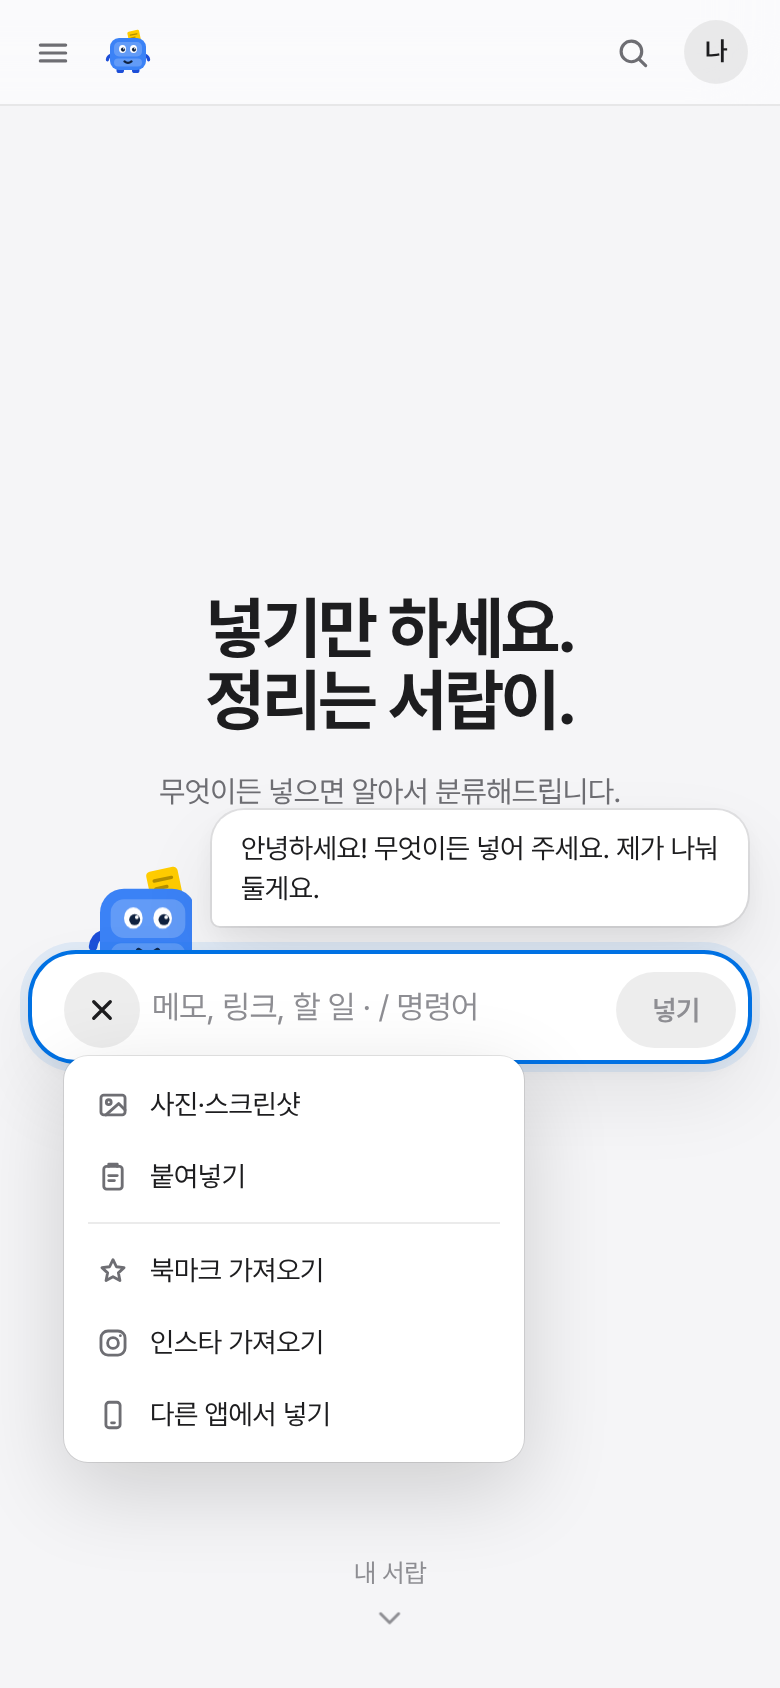
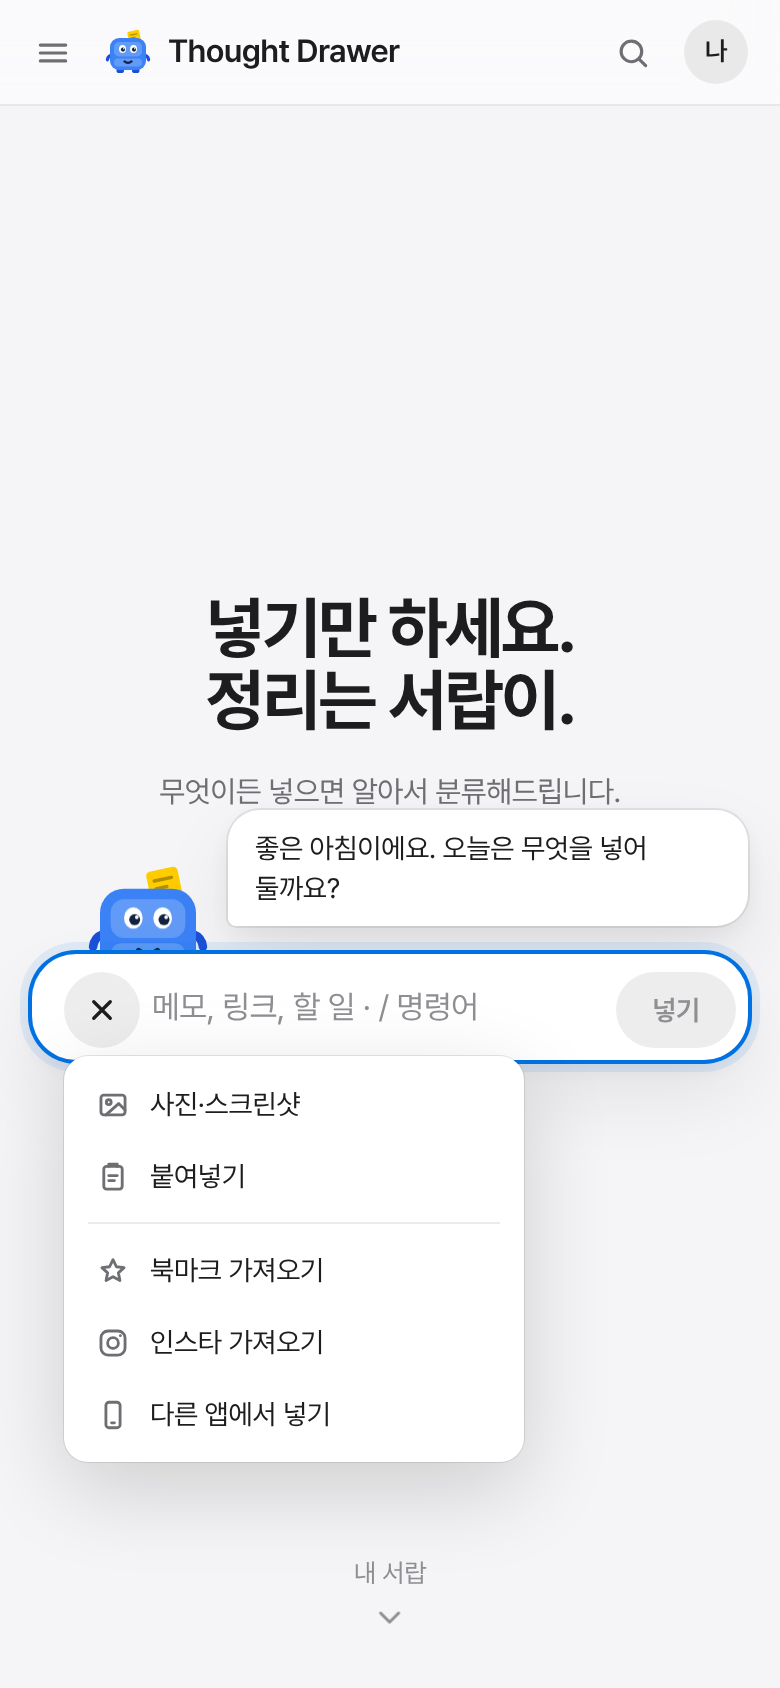
폰 화면을 PC 구조에 맞추기
- 노트: PC의 세 칸을 그대로. 위 막대의 두 버튼으로 왼쪽(같은 서랍 노트)과 오른쪽(연결 · 목차 · 그래프) 칸을 밀어 열고, 바깥을 누르거나 ✕로 닫는다
- 위치 표시는 한 줄, 맨 위 이름 옆에 앱 이름도 보이게
- 서랍 화면 폴더 3열, 도움말 목차 2열, 서랍이 크기 줄이기
- PC 화면은 그대로 (픽셀 비교로 확인)

Claude-Session: https://claude.ai/code/session_01NXaGNJyQVpQYUUX5tEWxav

diff --git a/js/ui/views/note.js b/js/ui/views/note.js
@@ -1,6 +1,6 @@
 // 노트 화면: 제목, 속성(폴더·태그·출처·날짜), Claude 요약, 내 생각, 본문(바로 쓰는 편집기, 자동 저장),
 // 오른쪽 패널(연결, 비슷한 노트). /new 는 아무것도 적기 전까지 파일을 만들지 않는다.
-import { html, useState, useEffect, useLayoutEffect, useRef, useCallback, autosize } from '../h.js';
+import { html, useState, useEffect, useLayoutEffect, useRef, useCallback, autosize, cx } from '../h.js';
 import { Icon, Mascot, TYPE_ICON } from '../icons.js';
 import { app, useLib, toast } from '../state.js';
 import { go, setUrl, noteHref, folderHref, tagHref } from '../router.js';
@@ -72,11 +72,11 @@ function WsBar({ noteId = null, crumb = null, right = null, siblings = [] }) {
 }
 
 // 왼쪽 칸: 같은 서랍의 노트들 (옵시디언의 파일 탐색기)
-function Explorer({ note, cat }) {
+function Explorer({ note, cat, onClose }) {
   const lib = useLib();
   const list = note ? lib.all.filter((n) => categoryOf(n, lib).name === cat.name).slice(0, 300) : lib.all.slice(0, 60);
   return html`<aside class="ws-left" aria-label="같은 서랍의 노트">
-    <div class="ws-pane-head"><${Icon} name=${note ? categoryLook(cat.name).icon : 'clock'} /><b>${note ? cat.name : '최근 노트'}</b><span class="grow"></span><a href=${note ? folderHref(cat.name) : '#/all'} title="모두 보기">${list.length}</a></div>
+    <div class="ws-pane-head"><${Icon} name=${note ? categoryLook(cat.name).icon : 'clock'} /><b>${note ? cat.name : '최근 노트'}</b><span class="grow"></span><a href=${note ? folderHref(cat.name) : '#/all'} title="모두 보기">${list.length}</a>${onClose && html`<button type="button" class="icon-btn show-m pane-x" aria-label="닫기" onClick=${onClose}><${Icon} name="x" /></button>`}</div>
     <ul class="ex-list">${list.map((n) => html`<li key=${n.id}><a href=${noteHref(n.id)} aria-current=${note && n.id === note.id ? 'page' : undefined}><${Icon} name=${TYPE_ICON[n.meta.type] ?? 'memo'} /><span>${titleOf(n)}</span></a></li>`)}</ul>
   </aside>`;
 }
@@ -99,11 +99,11 @@ function LocalGraph({ note }) {
 }
 
 // 오른쪽 칸: 연결 · 목차 · 그래프 (옵시디언의 오른쪽 사이드바)
-function Side({ note, md }) {
+function Side({ note, md, onClose }) {
   const [tab, setTab] = useState('links');
   const tabs = [['links', '연결'], ['outline', '목차'], ['graph', '그래프']];
   return html`<aside class="ws-right" aria-label="연결과 목차">
-    <div class="rp-tabs" role="tablist">${tabs.map(([k, label]) => html`<button type="button" key=${k} role="tab" aria-selected=${tab === k} onClick=${() => setTab(k)}>${label}</button>`)}</div>
+    <div class="rp-tabs" role="tablist">${tabs.map(([k, label]) => html`<button type="button" key=${k} role="tab" aria-selected=${tab === k} onClick=${() => setTab(k)}>${label}</button>`)}${onClose && html`<button type="button" class="icon-btn show-m pane-x" aria-label="닫기" onClick=${onClose}><${Icon} name="x" /></button>`}</div>
     <div class="rp-body note-links">
       ${tab === 'links' && (note ? html`<${Links} note=${note} />` : html`<p class="rp-empty">저장 후 표시됩니다.</p>`)}
       ${tab === 'outline' && html`<${Outline} md=${md} />`}
@@ -172,6 +172,8 @@ export function NoteView({ id, params }) {
   const [main, setMain] = useState(() => (note || id !== 'new' ? splitLinks(note?.body).main : TEMPLATES.find((t) => t.id === params?.get('template'))?.body ?? ''));
   const [thought, setThought] = useState(note?.meta.thought ?? '');
   const [saveState, setSaveState] = useState(null);
+  const [pane, setPane] = useState(''); // 폰: PC의 왼쪽(같은 서랍 노트)·오른쪽(연결·목차·그래프) 칸을 밀어 여는 창으로
+  const flip = (k) => setPane((p) => (p === k ? '' : k));
   const dirty = useRef(false);
   const queue = useRef(Promise.resolve());
   const latest = useRef({});
@@ -301,12 +303,15 @@ export function NoteView({ id, params }) {
     <${MenuItem} icon="trash" label="지우기" danger onClick=${() => { close(); remove(); }} />`);
 
   const kindLabel = KIND_LABEL[m.type] ?? '메모';
-  return html`<div class="ws">
-    <${Explorer} note=${note} cat=${cat} />
+  return html`<div class=${cx('ws', pane && `pane-${pane}`)}>
+    <${Explorer} note=${note} cat=${cat} onClose=${() => setPane('')} />
+    ${pane && html`<button type="button" class="ws-scrim show-m" aria-label="닫기" onClick=${() => setPane('')}></button>`}
     <div class="ws-main">
       <${WsBar} noteId=${noteId} siblings=${note && cat ? lib.all.filter((n) => categoryOf(n, lib).name === cat.name).map((n) => n.id) : []} crumb=${html`${cat ? html`<a href=${folderHref(cat.name)}>${cat.name}</a><${Icon} name="chevron" />${cat.sub && html`<a href=${folderHref(`${cat.name}/${cat.sub}`)}>${cat.sub}</a><${Icon} name="chevron" />`}${cat.sub && cat.leaf && html`<a class="hide-m" href=${folderHref(`${cat.name}/${cat.sub}/${cat.leaf}`)}>${cat.leaf}</a><${Icon} name="chevron" class="hide-m" />`}` : html`<span>새 노트</span><${Icon} name="chevron" />`}<b>${title.trim() || (note ? titleOf(note) : '제목 없음')}</b>`} right=${html`
         <${SaveState} state=${saveState} />
         <span class="grow"></span>
+        <button type="button" class="icon-btn show-m" aria-label="같은 서랍 노트" aria-pressed=${pane === 'left'} title="같은 서랍 노트" onClick=${() => flip('left')}><${Icon} name="sidebar" /></button>
+        <button type="button" class="icon-btn show-m" aria-label="연결 · 목차 · 그래프" aria-pressed=${pane === 'right'} title="연결 · 목차 · 그래프" onClick=${() => flip('right')}><${Icon} name="panel" /></button>
         ${note && html`<button type="button" class=${`icon-btn${pinned ? ' starred' : ''}`} aria-pressed=${pinned} aria-label="즐겨찾기" title="즐겨찾기" onClick=${togglePin}><${Icon} name="star" /></button>`}
         <button type="button" class="icon-btn" aria-label="더 보기" onClick=${(e) => more(e.currentTarget)}><${Icon} name="more" /></button>`} />
       <article class=${`note-page k-${m.type ?? 'memo'}`}>
@@ -352,6 +357,6 @@ export function NoteView({ id, params }) {
         ${note && html`<p class="facts"><span>${fullDate(m.created)}에 넣음</span><span>${relTime(m.updated || m.created)} 고침</span>${m.organized && html`<span>${relTime(m.organized)} Claude가 정리</span>`}<span class="num">No.${note.id}</span></p>`}
       </article>
     </div>
-    <${Side} note=${note} md=${main} />
+    <${Side} note=${note} md=${main} onClose=${() => setPane('')} />
   </div>`;
 }

diff --git a/css/app.css b/css/app.css
@@ -709,7 +709,6 @@ kbd { display: inline-grid; place-items: center; min-width: 20px; height: 20px; 
 }
 @media (max-width: 860px) {
   .gn-links { display: none; }
-  .gn-brand span { display: none; }
   .add-btn span { display: none; }
   .add-btn { width: 34px; padding: 0; justify-content: center; }
   .hero { padding: 24px var(--gut) 96px; }
@@ -945,10 +944,9 @@ kbd { display: inline-grid; place-items: center; min-width: 20px; height: 20px; 
 .man-faq dd { margin: 4px 0 0; font-size: 14px; line-height: 1.6; color: var(--text-2); }
 @media (max-width: 860px) {
   .manual { grid-template-columns: 1fr; gap: 14px; }
-  .man-toc { position: static; display: flex; gap: 6px; overflow-x: auto; scrollbar-width: none; margin: 0 calc(var(--gut) * -1); padding: 0 var(--gut); }
-  .man-toc::-webkit-scrollbar { display: none; }
-  .man-toc button { flex: none; gap: 6px; height: 32px; min-height: 0; padding: 0 12px; border-radius: 999px; background: var(--paper); box-shadow: inset 0 0 0 1px var(--border); }
-  .man-toc button span { width: auto; }
+  /* PC처럼 차례를 한눈에: 두 줄 목록 */
+  .man-toc { position: static; display: grid; grid-template-columns: repeat(2, minmax(0, 1fr)); gap: 2px 8px; padding: 8px; border-radius: 14px; background: var(--paper); box-shadow: inset 0 0 0 1px var(--border); }
+  .man-toc button { min-height: 34px; padding: 0 8px; }
   .man-sec { padding: 18px; }
 }
 
@@ -1044,9 +1042,9 @@ kbd { display: inline-grid; place-items: center; min-width: 20px; height: 20px; 
 .sk-fold .sk { width: 92px; height: 76px; border-radius: 12px; }
 @media (max-width: 860px) {
   .folder-grid { grid-template-columns: repeat(3, minmax(0, 1fr)); gap: 4px; }
-  .folder-grid.big { grid-template-columns: repeat(2, minmax(0, 1fr)); }
-  .fold .folder-ic { width: 76px; height: 62px; }
-  .fold.big .folder-ic { width: 96px; height: 79px; }
+  .folder-grid.big { grid-template-columns: repeat(3, minmax(0, 1fr)); }
+  .fold .folder-ic, .fold.big .folder-ic { width: 76px; height: 62px; }
+  .fold.big b { font-size: 14.5px; }
 }
 
 /* ---- 어디서나 따라다니는 서랍이 ---- */
@@ -1064,12 +1062,33 @@ kbd { display: inline-grid; place-items: center; min-width: 20px; height: 20px; 
 .boot .mascot { animation: bob 1.2s ease-in-out infinite; }
 .boot p { margin: 0; }
 @media (max-width: 860px) {
-  .buddy { right: 12px; bottom: calc(12px + var(--safe-b)); }
-  .buddy-btn { width: 52px; height: 52px; }
-  .buddy-btn .mascot { width: 42px; height: 42px; }
+  .buddy { right: 10px; bottom: calc(10px + var(--safe-b)); gap: 4px; }
+  .buddy-btn { width: 46px; height: 46px; }
+  .buddy-btn .mascot { width: 38px; height: 38px; }
+  .buddy-bubble { margin-bottom: 34px; max-width: min(240px, 60vw); padding: 7px 11px; font-size: 12.5px; }
 }
 @media (prefers-reduced-motion: reduce) { .buddy-btn .mascot, .boot .mascot { animation: none; } }
 
 .page-hero h1.with-fold { display: flex; align-items: center; gap: 14px; }
 .page-hero h1.with-fold .folder-ic { flex: none; filter: drop-shadow(0 4px 8px rgba(30, 110, 180, .18)); }
 @media (max-width: 860px) { .page-hero h1.with-fold .folder-ic { width: 42px; height: 35px; } }
+
+/* ---------- 폰: PC 구조를 그대로 (노트의 세 칸, 같은 메뉴) ---------- */
+@media (max-width: 860px) {
+  /* 노트: 왼쪽(같은 서랍 노트)·오른쪽(연결·목차·그래프) 칸을 위쪽 단추로 밀어 연다 */
+  .ws-left, .ws-right { display: block; position: fixed; z-index: 36; top: calc(var(--nav-h) + env(safe-area-inset-top, 0px)); bottom: 0; width: min(86vw, 340px); border: 0; box-shadow: var(--shadow-pop); visibility: hidden; transition: transform .26s var(--ease), visibility 0s .26s; }
+  .ws-left { left: 0; transform: translateX(-104%); }
+  .ws-right { right: 0; transform: translateX(104%); border-top: 0; }
+  .ws.pane-left .ws-left, .ws.pane-right .ws-right { visibility: visible; transform: none; transition: transform .26s var(--ease); }
+  .ws-scrim { position: fixed; inset: 0; z-index: 35; border: 0; background: rgba(0, 0, 0, .28); animation: fade-in .2s; }
+  .ws-bar { gap: 0; padding: 0 4px; }
+  .ws-bar .icon-btn { width: 34px; }
+  .crumbs { flex: 0 1 auto; overflow: hidden; white-space: nowrap; padding-left: 4px; }
+  .crumbs > :not(:first-child) { display: none; }
+  .crumbs a { overflow: hidden; text-overflow: ellipsis; }
+  .editor-host .ProseMirror { padding-bottom: 14vh; }
+  .p-foot > span:last-child { flex: none; white-space: nowrap; }
+  .ws-pane-head .pane-x, .rp-tabs .pane-x { flex: none; width: 30px; height: 30px; margin-right: -6px; }
+}
+@keyframes fade-in { from { opacity: 0; } }
+

diff --git a/index.html b/index.html
@@ -20,13 +20,13 @@
 <link rel="preconnect" href="https://fonts.googleapis.com">
 <link rel="preconnect" href="https://fonts.gstatic.com" crossorigin>
 <link rel="stylesheet" href="https://fonts.googleapis.com/css2?family=JetBrains+Mono:wght@400;500&family=Noto+Serif+KR:wght@400;600;700&display=swap">
-<link rel="stylesheet" href="css/app.css?v=33">
+<link rel="stylesheet" href="css/app.css?v=34">
 <script src="js/vendor/marked.min.js" defer></script>
 <script src="js/vendor/purify.min.js" defer></script>
 </head>
 <body>
 <div id="root"></div>
 <noscript>Thought Drawer는 자바스크립트가 켜져 있어야 동작해요.</noscript>
-<script type="module" src="js/main.js?v=33"></script>
+<script type="module" src="js/main.js?v=34"></script>
 </body>
 </html>

diff --git a/privacy.html b/privacy.html
@@ -6,7 +6,7 @@
 <title>개인정보처리방침 | Thought Drawer</title>
 <link rel="icon" href="icons/icon.svg" type="image/svg+xml">
 <link rel="stylesheet" href="https://cdn.jsdelivr.net/npm/pretendard@1.3.9/dist/web/variable/pretendardvariable-dynamic-subset.css">
-<link rel="stylesheet" href="css/app.css?v=33">
+<link rel="stylesheet" href="css/app.css?v=34">
 </head>
 <body>
 <main class="doc">

diff --git a/terms.html b/terms.html
@@ -6,7 +6,7 @@
 <title>서비스 약관 | Thought Drawer</title>
 <link rel="icon" href="icons/icon.svg" type="image/svg+xml">
 <link rel="stylesheet" href="https://cdn.jsdelivr.net/npm/pretendard@1.3.9/dist/web/variable/pretendardvariable-dynamic-subset.css">
-<link rel="stylesheet" href="css/app.css?v=33">
+<link rel="stylesheet" href="css/app.css?v=34">
 </head>
 <body>
 <main class="doc">
